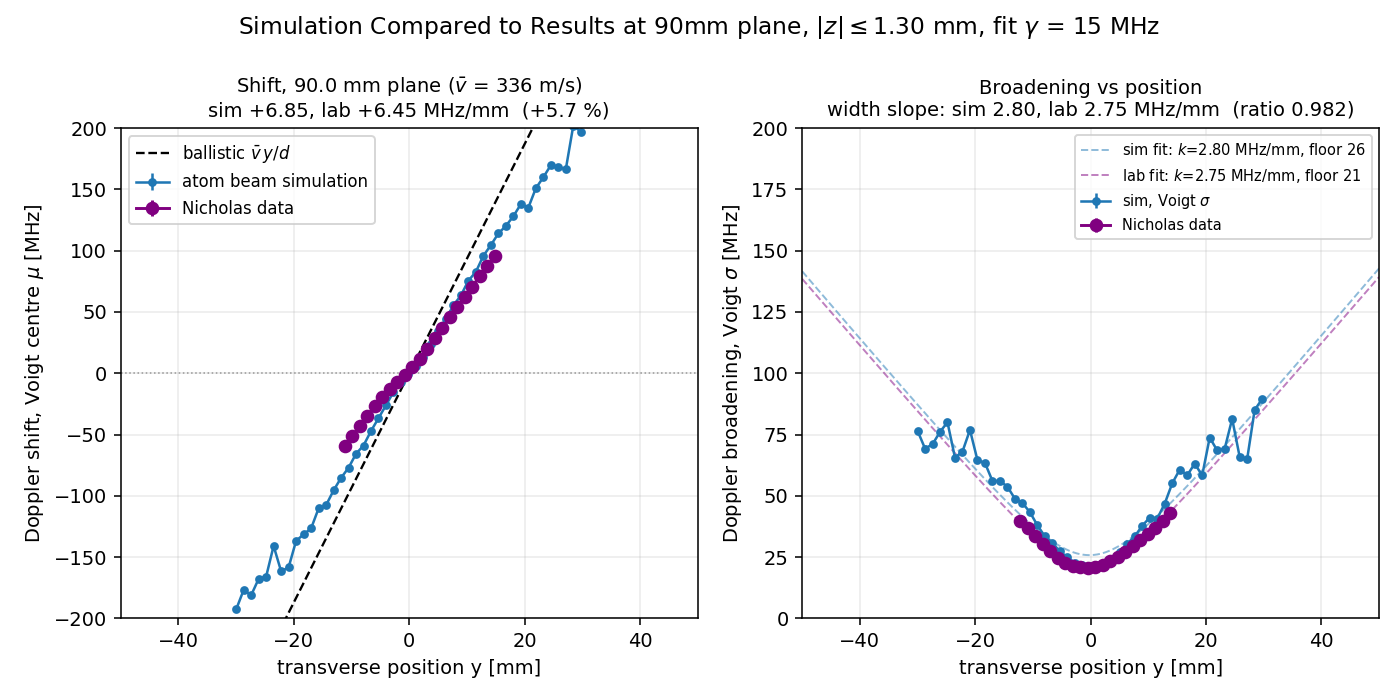
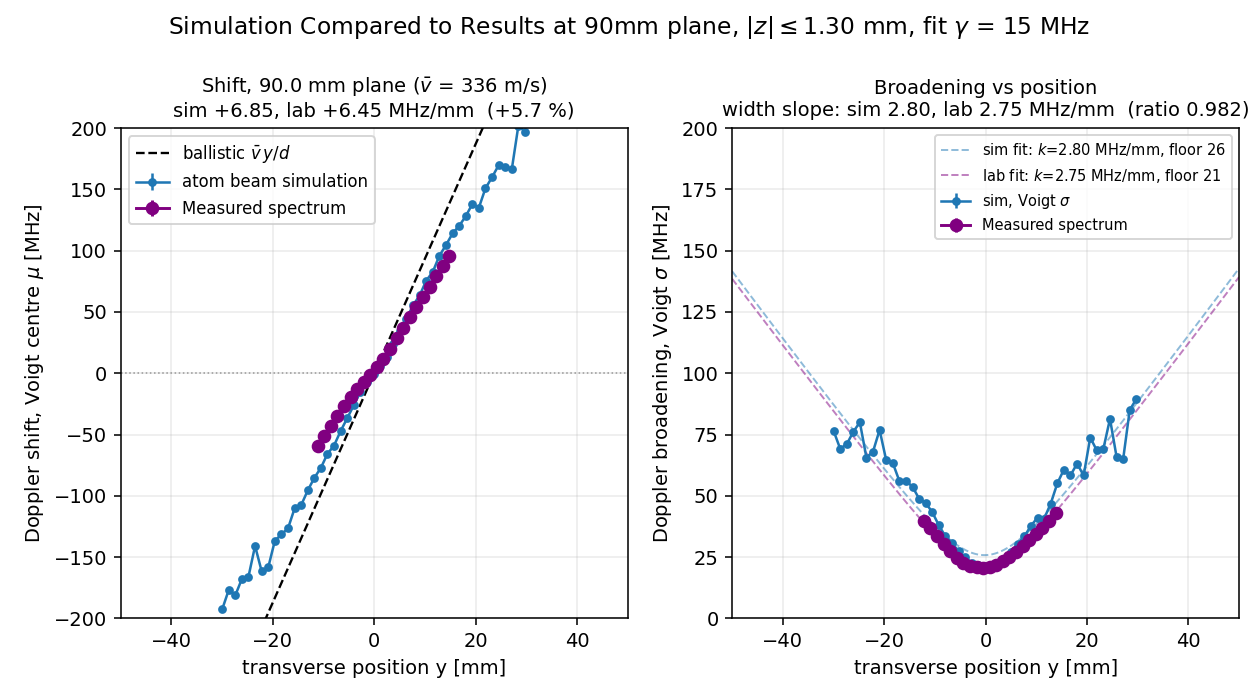
more updates to graphs

diff --git a/app/page.tsx b/app/page.tsx
@@ -38,8 +38,8 @@ export default function Page() {
       <p className="mb-4">
       In 2024, I competed in the US Physics Olympiad (Team USA Physics Competition), 
       placing among the top in the country for a shot at representing the United States 
-      internationally. Since then, I’ve spent my time building robots, programming in 10 
-      languages, teaching math at high schools around Toronto, doing quantitative finance 
+      internationally. Since then, I’ve also spent my time building robots, programming in 10 
+      languages, teaching math and physics at John Polanyi Collegiate Institute, doing quantitative finance 
       research, and preparing to represent the University of Toronto in the Putnam Math Competition.</p>
       <p className="mb-10">
       I hope you enjoy this website as much as I enjoyed making it. 
